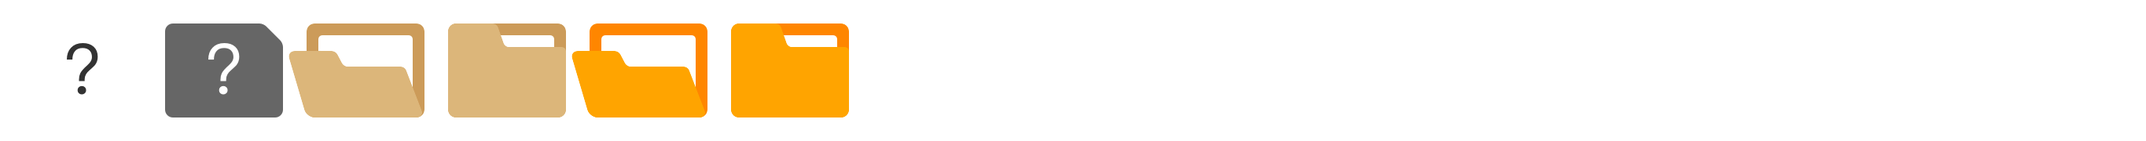
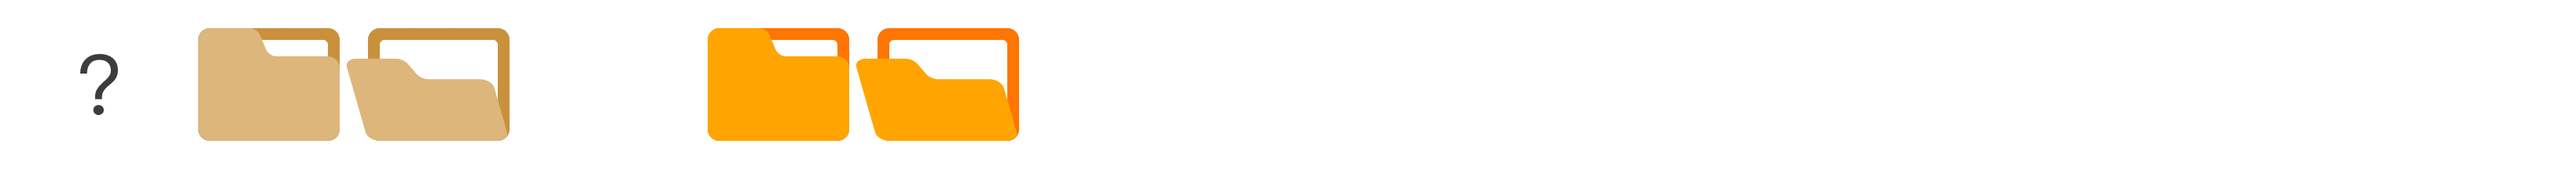
优化预览图生成

Changed region(s): [[0.0311, 0.1667, 0.4048, 0.8333]]

diff --git a/builder/preview/preview.go b/builder/preview/preview.go
@@ -1,0 +1,68 @@
+package preview
+
+import (
+	"image"
+	"image/draw"
+	"image/png"
+	"io/ioutil"
+	"main/builder/log"
+	"main/builder/old/app"
+	"math"
+	"os"
+	"path"
+	"path/filepath"
+)
+
+// GenPreview 生成预览图
+func GenPreview() {
+	dir := app.GetAppDir("icons")
+	previews := app.GetAppDir("previews")
+	infos, err := ioutil.ReadDir(dir)
+	log.Error(err)
+
+	for _, info := range infos {
+		if !info.IsDir() {
+			continue
+		}
+
+		previewName := "preview_" + info.Name() + ".png"
+		previewFile := filepath.Join(previews, previewName)
+
+		files, err := ioutil.ReadDir(filepath.Join(dir, info.Name()))
+		log.Error(err)
+
+		fileCount := len(files)
+
+		num := 15
+		s := 6
+		width := 36 * s
+		height := 24 * s
+		space := 6 * s
+
+		react := image.Rect(0, 0, num*width+space, int(math.Ceil(float64(fileCount)/float64(num)))*(height+space)+space)
+		img := image.NewRGBA(react)
+
+		write, err := os.Create(previewFile)
+		log.Error(err)
+
+		for i, file := range files {
+			if file.IsDir() {
+				continue
+			}
+
+			line := i / num
+			index := i % num
+			x := index * width
+			y := line*(height+space) + space
+			read, err := os.Open(path.Join(dir, info.Name(), file.Name()))
+			log.Error(err)
+			icon, _, err := image.Decode(read)
+			log.Error(err)
+			read.Close()
+			draw.Draw(img, image.Rectangle{image.Point{x, y}, image.Point{x + width, y + height}}, icon, image.Point{0, 0}, draw.Src)
+		}
+
+		png.Encode(write, img)
+		write.Close()
+	}
+}

diff --git a/builder/builder.go b/builder/builder.go
@@ -2,6 +2,8 @@ package builder
 
 import (
 	"main/builder/log"
+	"main/builder/old/app"
+	"main/builder/preview"
 	"main/builder/vscode"
 	"os"
 )
@@ -11,11 +13,13 @@ func Run() {
 
 	// 检查参数
 	args := os.Args
-	log.Info("启动参数", args)
 	if len(args) < 2 {
 		log.Error("参数错误")
 	}
 
-	// 初始化 VSCode 包
+	// 初始化环境
+	app.Init()
 	vscode.Init(args[1])
+
+	preview.GenPreview()
 }

diff --git a/builder/old/app/app.go b/builder/old/app/app.go
@@ -1,0 +1,27 @@
+package app
+
+import (
+	"main/builder/log"
+	"os"
+	"path/filepath"
+)
+
+var root string
+
+// Init 初始化
+func Init() {
+	dir, err := os.Getwd()
+	if err != nil {
+		log.Error(err)
+	}
+	root = dir
+}
+
+// GetAppDir 获取目录
+func GetAppDir(name string) string {
+	dir := filepath.Join(root, name)
+	if _, err := os.Stat(dir); err != nil {
+		log.Error(err)
+	}
+	return dir
+}

diff --git a/builder/log/log.go b/builder/log/log.go
@@ -8,6 +8,8 @@ func Info(a ...interface{}) {
 }
 
 // Error 错误
-func Error(v interface{}) {
-	panic(v)
+func Error(err interface{}) {
+	if err != nil {
+		panic(err)
+	}
 }

diff --git a/builder/theme/theme.go b/builder/theme/theme.go
@@ -1,0 +1,1 @@
+package theme

diff --git a/builder/icon/icon.go b/builder/icon/icon.go
@@ -1,0 +1,1 @@
+package icon
